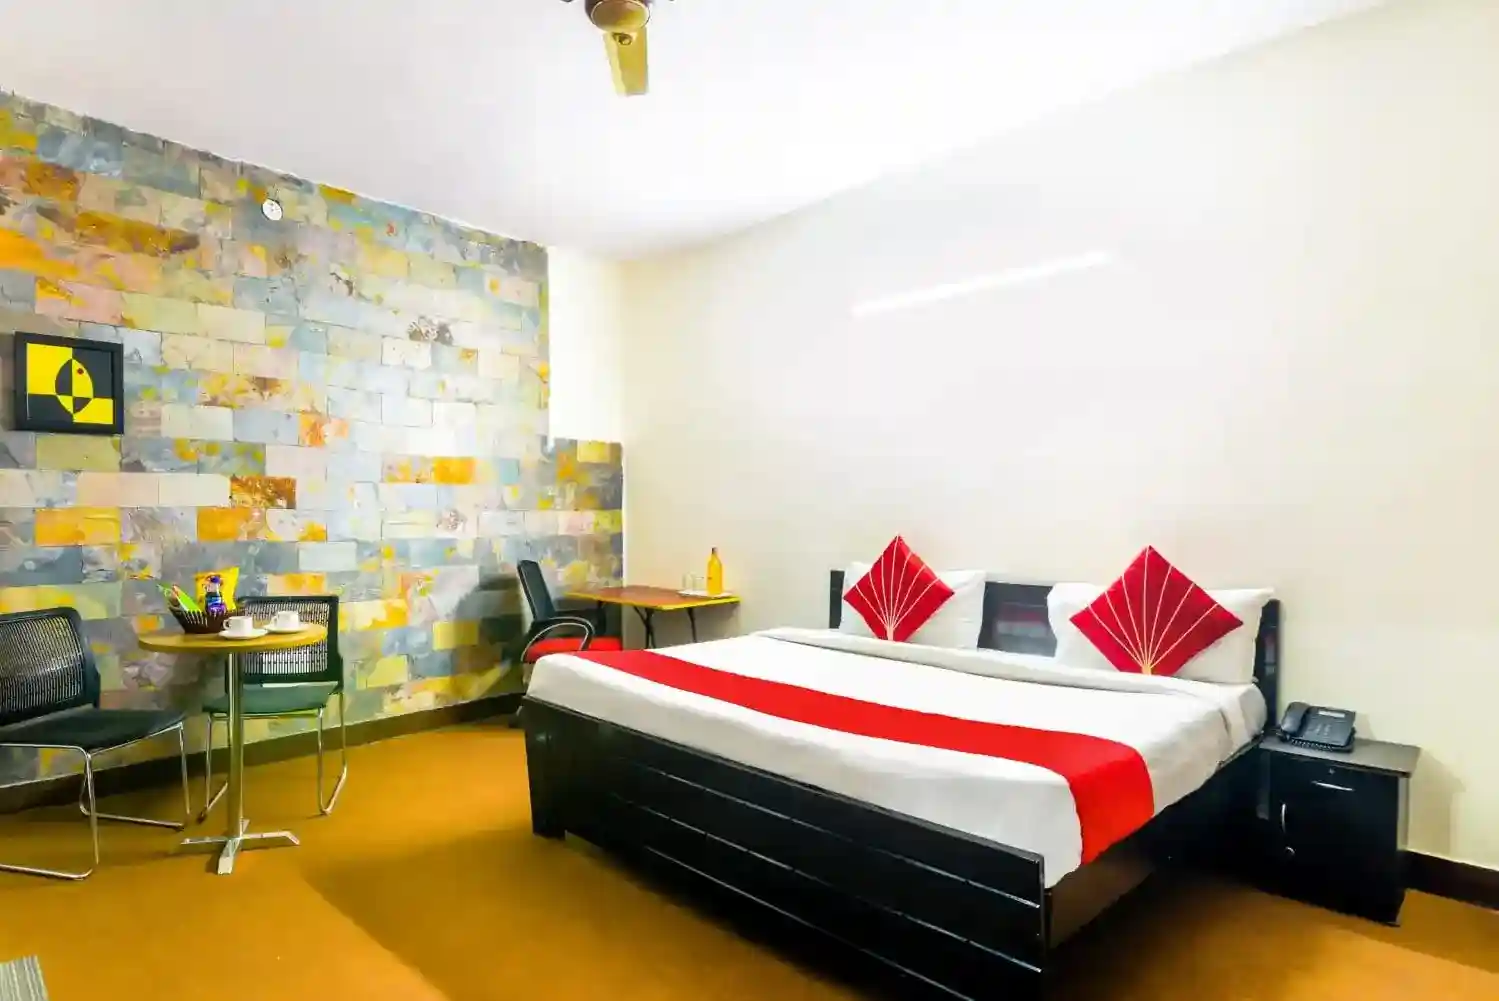
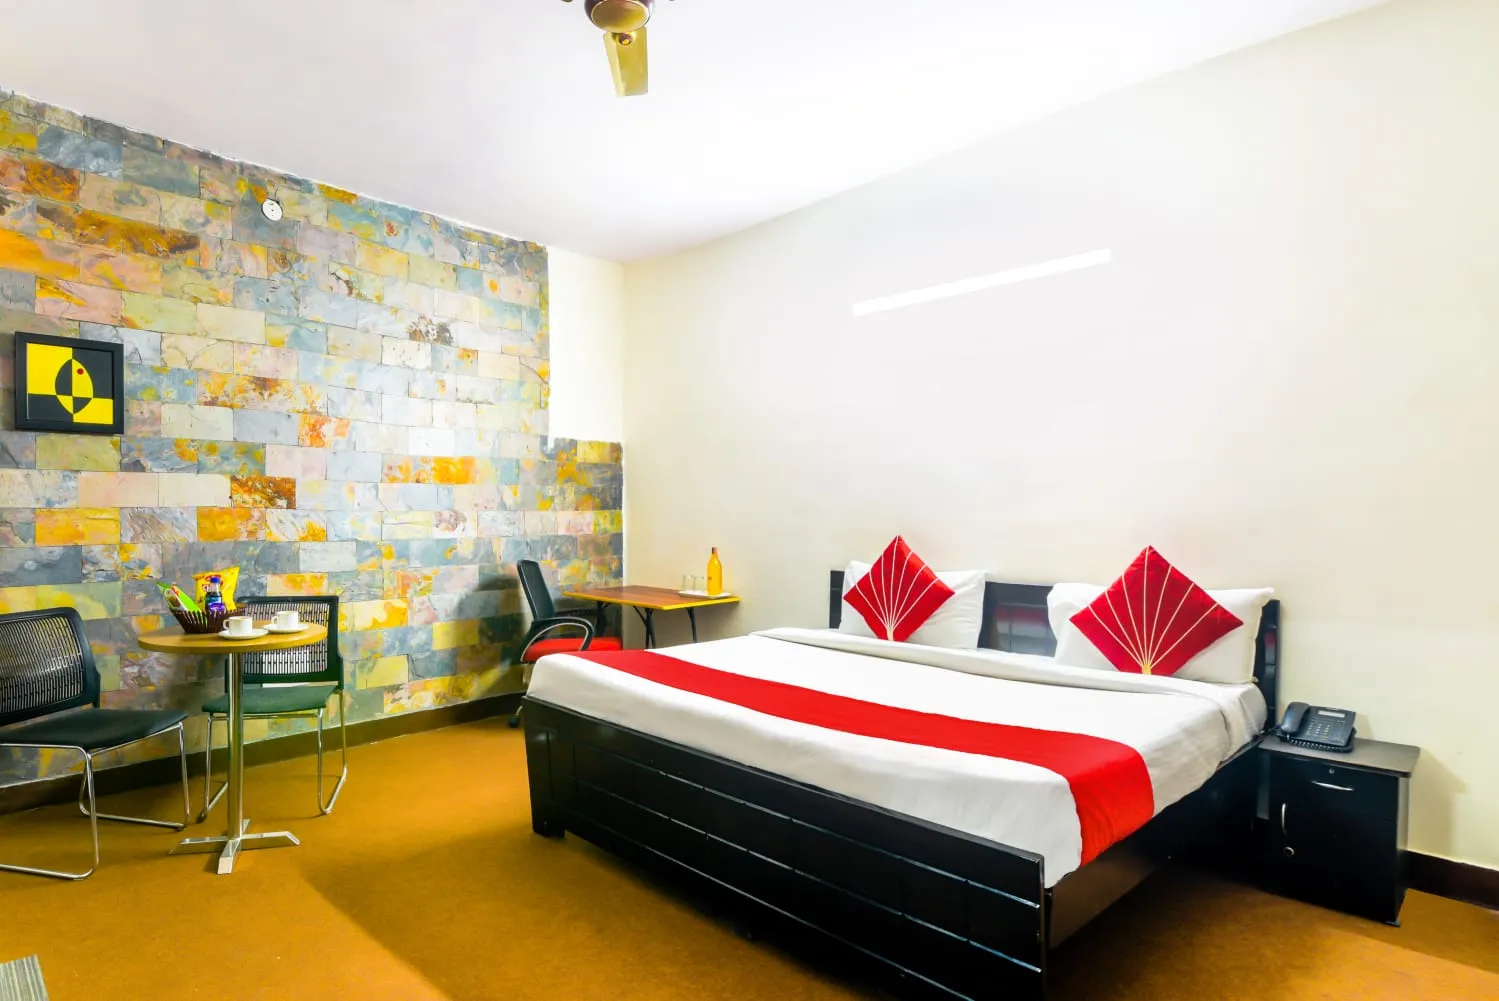
changes

diff --git a/pages/componants/socilemedia/SocileMedia.js b/pages/componants/socilemedia/SocileMedia.js
@@ -35,7 +35,7 @@ const SocileMedia = () => {
                         <div className={Styles.socile_gallery}>
                             <div className={Styles.images_img}>
                                 <div className={Styles.insta_img_2}>
-                                <Image src="/image/insta_2-min.jpg" width={100} height={100} className={Styles.soci_img} />
+                                <Image src="/image/insta_2-min.webp" width={100} height={100} className={Styles.soci_img} />
                                 </div>
                             </div>
                             <a href='https://www.instagram.com/p/Cl0Qelxvh_I/?igshid=YmMyMTA2M2Y=' target="blank" className={Styles.caption}>
@@ -47,7 +47,7 @@ const SocileMedia = () => {
                         <div className={Styles.socile_gallery}>
                             <div className={Styles.images_img}>
                                 <div className={Styles.insta_img_3}>
-                                <Image src="/image/insta_3-min.jpg" width={100} height={100} className={Styles.soci_img} />
+                                <Image src="/image/insta_3-min.webp" width={100} height={100} className={Styles.soci_img} />
                                 </div>
                             </div>
                             <a href='https://www.instagram.com/p/CjCwJwrNwQq/?igshid=YmMyMTA2M2Y=' target="blank" className={Styles.caption}>
@@ -58,7 +58,7 @@ const SocileMedia = () => {
                         <div className={Styles.socile_gallery}>
                             <div className={Styles.images_img}>
                                 <div className={Styles.insta_img_4}>
-                                <Image src="/image/insta_4-min.jpg" width={100} height={100} className={Styles.soci_img} />
+                                <Image src="/image/insta_4-min.webp" width={100} height={100} className={Styles.soci_img} />
                                 </div>
                             </div>
                             <a href='https://www.instagram.com/p/Chl8tuToMte/?igshid=YmMyMTA2M2Y=' target="blank" className={Styles.caption}>
@@ -69,7 +69,7 @@ const SocileMedia = () => {
                         <div className={Styles.socile_gallery}>
                             <div className={Styles.images_img}>
                                 <div className={Styles.insta_img_5}>
-                                <Image src="/image/insta_5-min.jpg" width={100} height={100} className={Styles.soci_img} />
+                                <Image src="/image/insta_5-min.webp" width={100} height={100} className={Styles.soci_img} />
                                 </div>
                             </div>
                             <a href='https://www.instagram.com/p/CgokNW2Lmv7/?igshid=YmMyMTA2M2Y=' target="blank" className={Styles.caption}>
@@ -80,7 +80,7 @@ const SocileMedia = () => {
                         <div className={Styles.socile_gallery}>
                             <div className={Styles.images_img}>
                                 <div className={Styles.insta_img_6}>
-                                <Image src="/image/insta_6-min.jpg" width={100} height={100} className={Styles.soci_img} />
+                                <Image src="/image/insta_6-min.webp" width={100} height={100} className={Styles.soci_img} />
                                 </div>
                             </div>
                             <a href='https://www.instagram.com/p/Ce3TpwetuBs/?igshid=YmMyMTA2M2Y=' target="blank" className={Styles.caption}>
@@ -91,7 +91,7 @@ const SocileMedia = () => {
                         <div className={Styles.socile_gallery}>
                             <div className={Styles.images_img}>
                                 <div className={Styles.insta_img_7}>
-                                <Image src="/image/insta_7-min.jpg" width={100} height={100} className={Styles.soci_img} />
+                                <Image src="/image/insta_7-min.webp" width={100} height={100} className={Styles.soci_img} />
                                 </div>
                             </div>
                             <a href='https://www.instagram.com/p/Cei6xD_tX30/?igshid=YmMyMTA2M2Y=' target="blank" className={Styles.caption}>
@@ -102,7 +102,7 @@ const SocileMedia = () => {
                         <div className={Styles.socile_gallery}>
                             <div className={Styles.images_img}>
                                 <div className={Styles.insta_img_8}>
-                                <Image src="/image/insta_8-min.jpg" width={100} height={100} className={Styles.soci_img} />
+                                <Image src="/image/insta_8-min.webp" width={100} height={100} className={Styles.soci_img} />
                                 </div>
                             </div>
                             <a href='https://www.instagram.com/p/CbwbozqtmHH/?igshid=YmMyMTA2M2Y=' target="blank" className={Styles.caption}>

diff --git a/pages/componants/resort/Resort.js b/pages/componants/resort/Resort.js
@@ -21,7 +21,7 @@ const Resort = () => {
       <div className={Styles.resort_box}>
         <div className={Styles.resort_container}>
           <div className={Styles.resort_img}>
-            <Image alt="oscenox" src="/image/restaurent_oscenox.jpeg" width={100} height={100} className={Styles.explore} />
+            <Image alt="oscenox" src="/image/restaurent_oscenox.webp" width={100} height={100} className={Styles.explore} />
           </div>
           <div
             className={`${Styles.resort_overlay} ${Styles.resort_overlayleft}`}
@@ -36,7 +36,7 @@ const Resort = () => {
 
         <div className={Styles.resort_container}>
           <div className={Styles.resort_img_3}>
-          <Image alt="oscenox" src="/image/resort_3.jpg" width={100} height={100} className={Styles.explore} />
+          <Image alt="oscenox" src="/image/resort_3.webp" width={100} height={100} className={Styles.explore} />
           </div>
           <div
             className={`${Styles.resort_overlay} ${Styles.resort_overlayleft}`}
@@ -47,7 +47,7 @@ const Resort = () => {
 
         <div className={Styles.resort_container}>
           <div className={Styles.resort_img_4}>
-          <Image alt="oscenox" src="/image/resort_4.jpeg" width={100} height={100} className={Styles.explore} />
+          <Image alt="oscenox" src="/image/resort_4.webp" width={100} height={100} className={Styles.explore} />
           </div>
           <div
             className={`${Styles.resort_overlay} ${Styles.resort_overlayleft}`}
@@ -58,7 +58,7 @@ const Resort = () => {
 
         <div className={Styles.resort_container}>
           <div className={Styles.resort_img_5}>
-          <Image alt="oscenox" src="/image/resort_5.jpg" width={100} height={100} className={Styles.explore} />
+          <Image alt="oscenox" src="/image/resort_5.webp" width={100} height={100} className={Styles.explore} />
           </div>
           <div
             className={`${Styles.resort_overlay} ${Styles.resort_overlayleft}`}
@@ -69,7 +69,7 @@ const Resort = () => {
 
         <div className={Styles.resort_container}>
           <div className={Styles.resort_img_6}>
-          <Image alt="oscenox" src="/image/resort_6.png" width={100} height={100} className={Styles.explore} />
+          <Image alt="oscenox" src="/image/resort_6.webp" width={100} height={100} className={Styles.explore} />
           </div>
           <div
             className={`${Styles.resort_overlay} ${Styles.resort_overlayleft}`}
@@ -91,7 +91,7 @@ const Resort = () => {
 
         <div className={Styles.resort_container}>
           <div className={Styles.resort_img_8}>
-          <Image alt="oscenox" src="/image/resort_8.jpg" width={100} height={100} className={Styles.explore} />
+          <Image alt="oscenox" src="/image/resort_8.webp" width={100} height={100} className={Styles.explore} />
           </div>
           <div
             className={`${Styles.resort_overlay} ${Styles.resort_overlayleft}`}

diff --git a/pages/componants/rooms/Rooms.js b/pages/componants/rooms/Rooms.js
@@ -20,7 +20,7 @@ const Rooms = () => {
 
         <div className={Styles.rooms_item}>
           <div className={Styles.rooms_img}>
-            <Image  src="/image/room_1.jpg" width="356" height="200" alt="room-img"></Image>
+            <Image  src="/image/room_1.webp" width="356" height="200" alt="room-img"></Image>
           </div>
           <div className={Styles.rooms_text}>
             <h1>Standard Room</h1>
@@ -51,7 +51,7 @@ const Rooms = () => {
 
         <div className={Styles.rooms_item}>
           <div className={Styles.rooms_img}>
-            <Image src="/image/room_2.jpg" width="356" height="200" alt="room-img"></Image>
+            <Image src="/image/room_2.webp" width="356" height="200" alt="room-img"></Image>
           </div>
           <div className={Styles.rooms_text}>
             <h1>Delux Room</h1>
@@ -85,7 +85,7 @@ const Rooms = () => {
         </div>
         <div className={Styles.rooms_item}>
           <div className={Styles.rooms_img}>
-            <Image src="/image/room_3.jpg" width="356" height="200" alt="room-img"></Image>
+            <Image src="/image/room_3.webp" width="356" height="200" alt="room-img"></Image>
           </div>
           <div className={Styles.rooms_text}>
             <h1>Suits Room</h1>

diff --git a/pages/componants/maingallery/Maingallery.js b/pages/componants/maingallery/Maingallery.js
@@ -18,16 +18,16 @@ const Maingallery = () => {
 
     <div className={Styles.line_img}>
       <div className={`${Styles.mian_galler_img_line} `}>
-        <Image alt="oscenox" src="/image/home_dj_4.jpg" width={0} height={0} className={Styles.line_img_line} />
+        <Image alt="oscenox" src="/image/home_dj_4.webp" width={0} height={0} className={Styles.line_img_line} />
       </div>
       <div className={`${Styles.mian_galler_img_line} `}>
       <Image alt="oscenox" src="/image/rafting.webp" width={0} height={0} className={Styles.line_img_line} />
       </div>
       <div className={`${Styles.mian_galler_img_line} `}>
-      <Image alt="oscenox" src="/image/restaurent_oscenox.jpeg" width={0} height={0} className={Styles.line_img_line} />
+      <Image alt="oscenox" src="/image/restaurent_oscenox.webp" width={0} height={0} className={Styles.line_img_line} />
       </div>
       <div className={`${Styles.mian_galler_img_line} `}>
-      <Image alt="oscenox" src="/image//picture1.jpg" width={0} height={0} className={Styles.line_img_line} />
+      <Image alt="oscenox" src="/image//picture1.webp" width={0} height={0} className={Styles.line_img_line} />
       </div>
       </div>
 

diff --git a/pages/componants/offers/Offers.js b/pages/componants/offers/Offers.js
@@ -13,10 +13,10 @@ const Offers = () => {
         </div>
 
         <div className={Styles.offers_item}>
-        <Image alt="oscenox" src="/image/from_img.jpg" width={100} height={100} className={Styles.offers_img} />
+        <Image alt="oscenox" src="/image/from_img.webp" width={100} height={100} className={Styles.offers_img} />
         </div>
         <div className={Styles.offers_item}>
-        <Image alt="oscenox" src="/image/newimg.png" width={100} height={100} className={Styles.offers_img} />
+        <Image alt="oscenox" src="/image/newimg.webp" width={100} height={100} className={Styles.offers_img} />
         </div>
 
         <div className={Styles.offers_item}>
